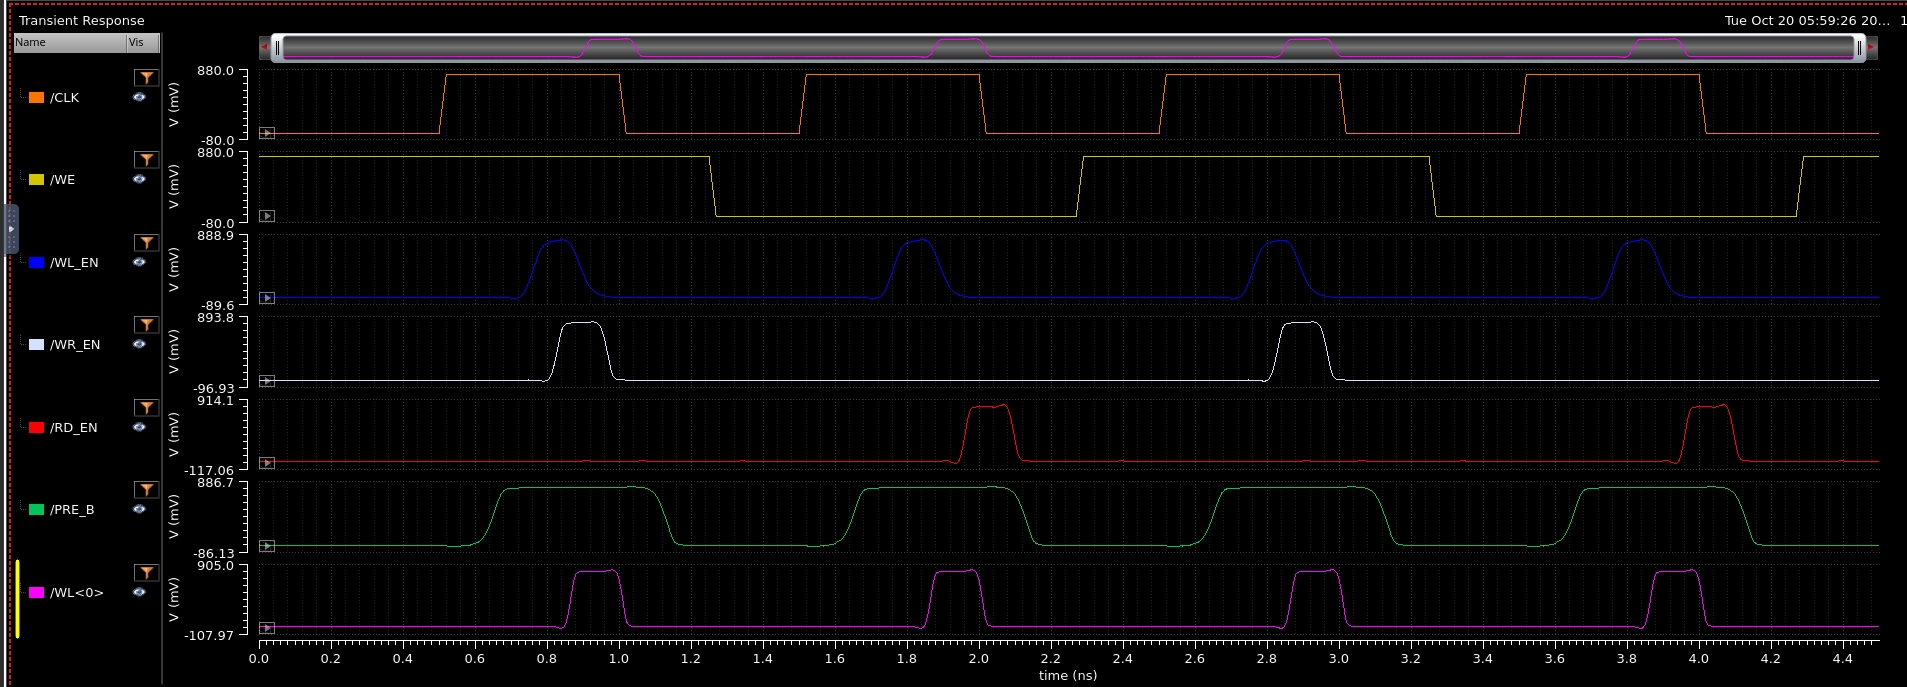
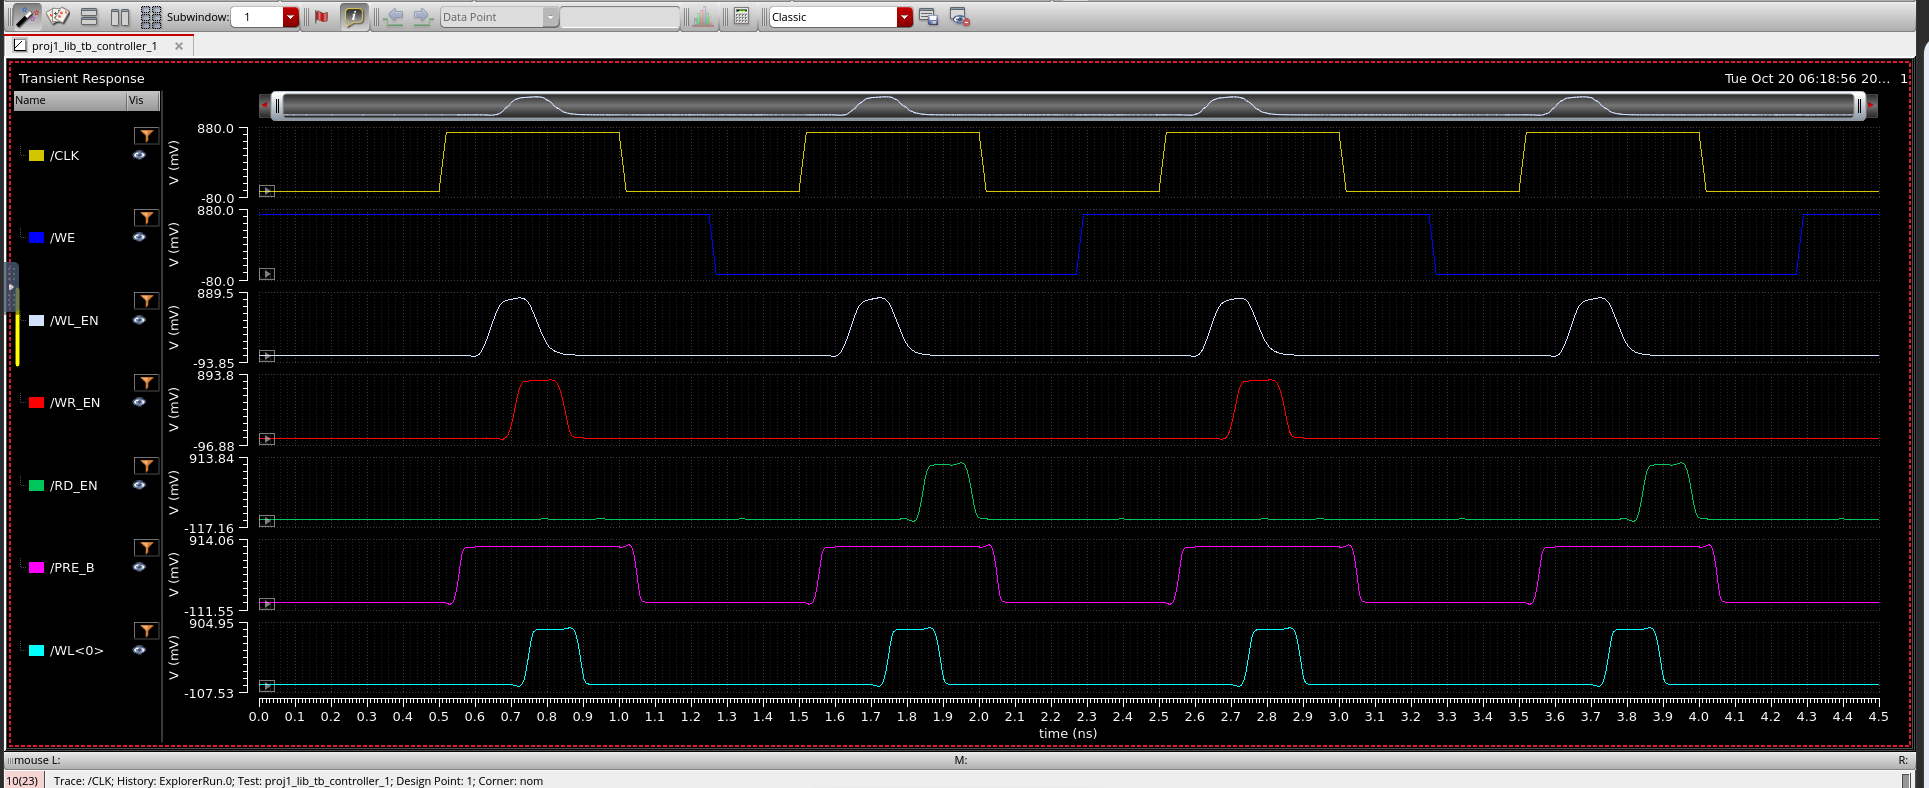
media: v3 controller waveform is now tb_controller_tran; keep v2

diff --git a/results/controller_unit_test.md b/results/controller_unit_test.md
@@ -1,6 +1,6 @@
 # controller unit test (2.4)
 
-Testbench `proj1_lib/tb_controller`: controller driving `decoder_predec` (cwl = 0.5 fF per wordline), loads of 500 aF on PRE_B, 600 aF on RD_EN, 1.3 fF on WR_EN (stand-ins; read from a small schematic label). Transient 0 to 4.5 ns, nominal, 27 C, VDD = 0.8 V, clock period 1 ns (CLK rises at 0.5, 1.5, 2.5, 3.5 ns). Address held at 0, DIN all ones. WE high in cycle 1 and 3 (write), low in cycle 2 and 4 (read), as read from the waveform. Images: `media/controller/tb_controller_ade_results.png`, `tb_controller_tran.png` (clean waveform, best for the report), `tb_controller_tran_with_scalar_box.png` (same run with the scalar-outputs box and plot markers), schematic `tb_controller_schematic.png`.
+Testbench `proj1_lib/tb_controller`: controller driving `decoder_predec` (cwl = 0.5 fF per wordline), loads of 500 aF on PRE_B, 600 aF on RD_EN, 1.3 fF on WR_EN (stand-ins; read from a small schematic label). Transient 0 to 4.5 ns, nominal, 27 C, VDD = 0.8 V, clock period 1 ns (CLK rises at 0.5, 1.5, 2.5, 3.5 ns). Address held at 0, DIN all ones. WE high in cycle 1 and 3 (write), low in cycle 2 and 4 (read), as read from the waveform. Images: `media/controller/tb_controller_ade_results.png`, `tb_controller_tran_v2_clkb_latches.png` (earlier v2 clean waveform), `tb_controller_tran_with_scalar_box.png` (v2 run with the scalar-outputs box and plot markers), schematic `tb_controller_schematic.png`.
 
 ## Current results (v3: latch enable on its own `inv_2x`)
 
@@ -47,7 +47,7 @@ The thinnest margin is now m_rd_pre = 70 ps (was 30 ps), so the +20% C_BL case h
 | WL falls before PRE_B falls | > 0 | 157.4 ps | +157 ps |
 | PRE_B rises before WR_EN rises | > 0 | 155.1 ps | +155 ps |
 
-Plot: `media/controller/tb_controller_tran_run2_0605.png`. The three width/lead margins are small (13 to 36 ps) and are the ones that shrink or grow with a longer delay chain.
+Plot: `media/controller/tb_controller_tran.png` (v3, plot timestamp 06:18:56; clean, no overlay; same pulse timing as the 06:05:50 capture `tb_controller_tran_run2_0605.png` and as the 06:12:17 capture whose scalar box matches the table). The three width/lead margins are small (13 to 36 ps) and are the ones that shrink or grow with a longer delay chain.
 
 ## Earlier results (v2: latches enabled from CLKB)
 
